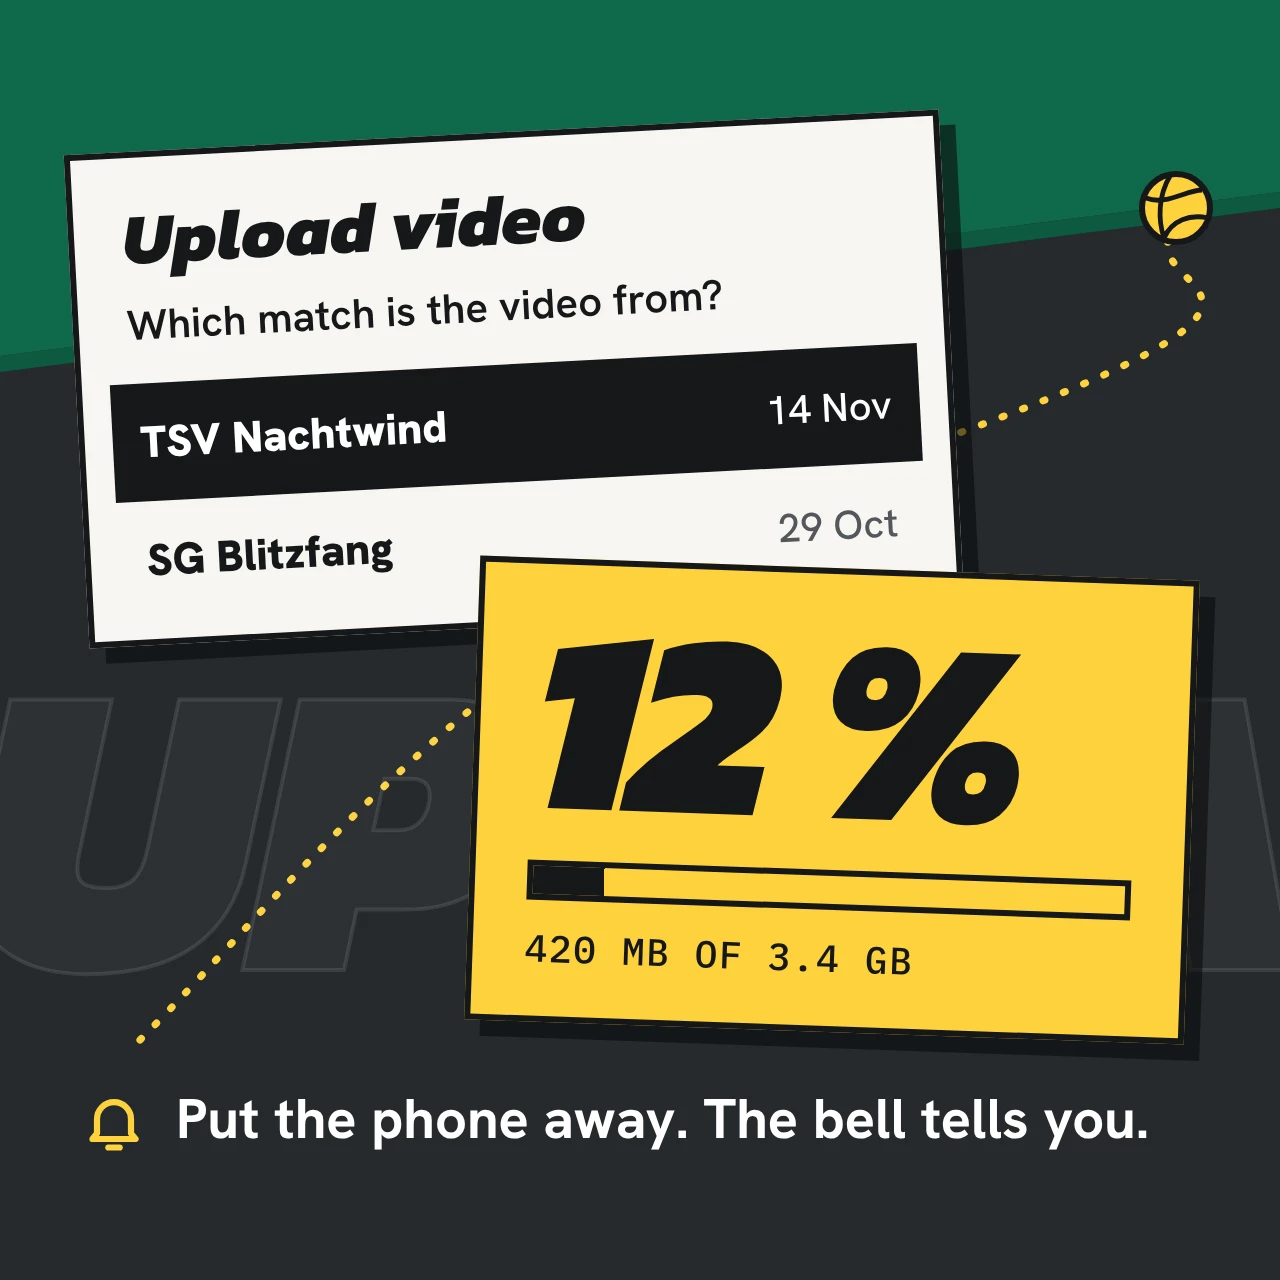
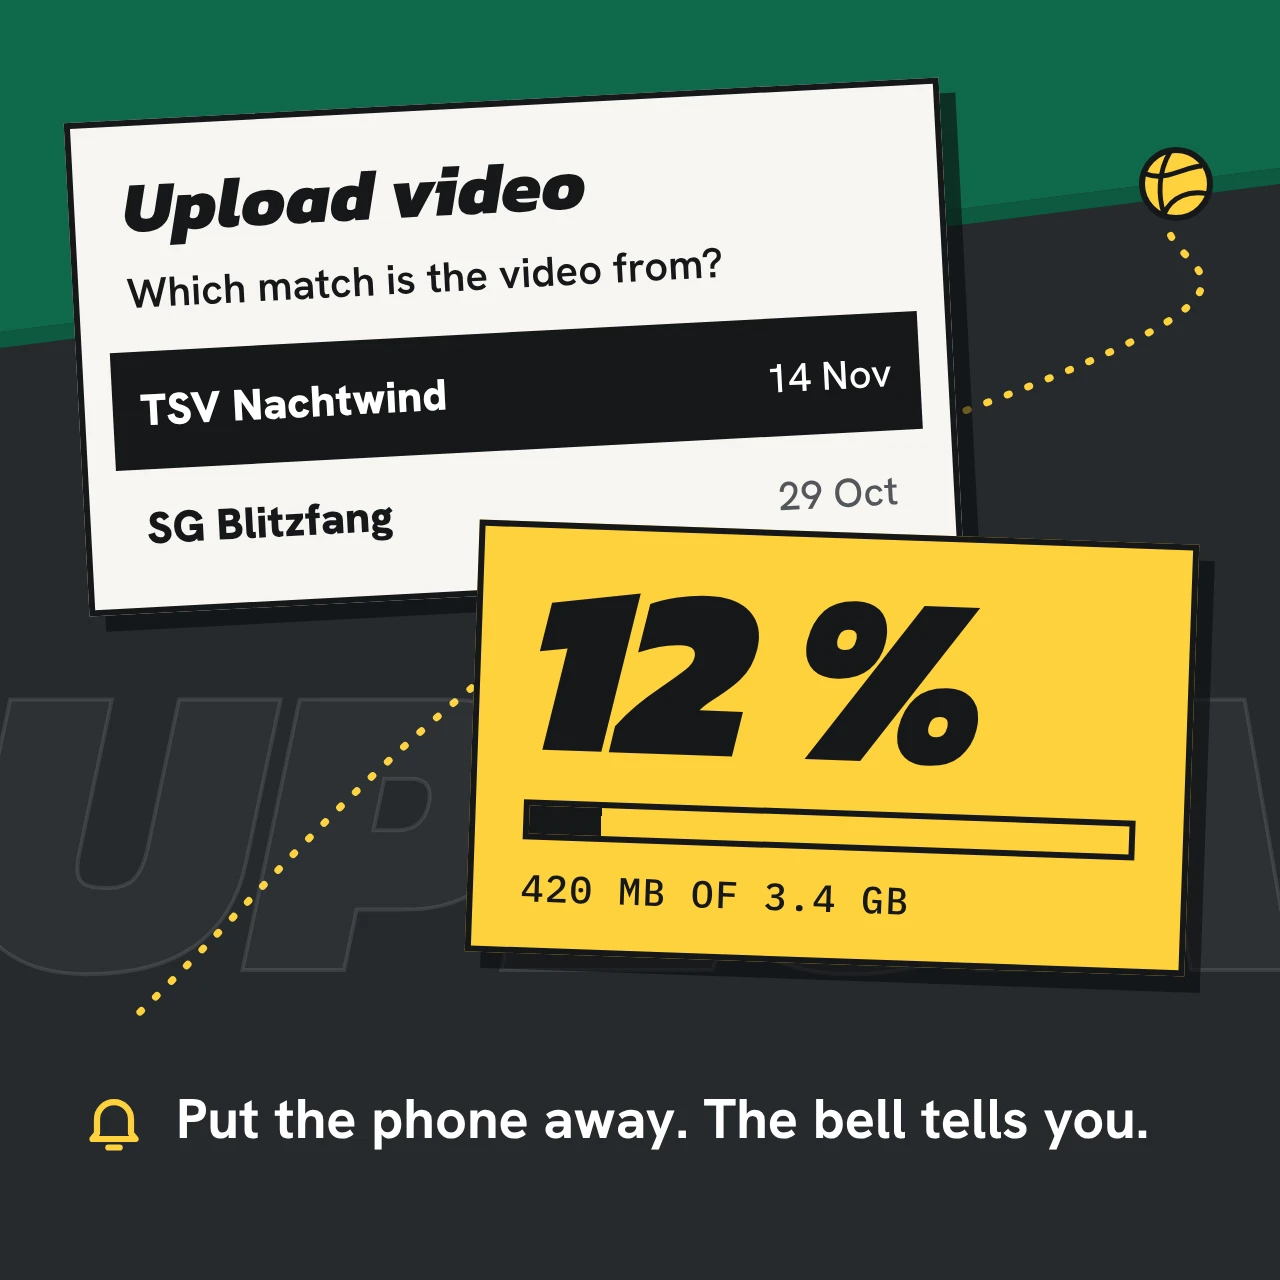
Site U33: step «Hochladen», room between the yellow card and the line at the foot
The German line wraps to two sentences; the cards move up so neither
touches it.

Claude-Session: https://claude.ai/code/session_01H3gogAPSyQiYdtAJAURpx7

diff --git a/apps/site/scripts/product-shots/templates/step-upload.html b/apps/site/scripts/product-shots/templates/step-upload.html
@@ -10,7 +10,7 @@
 <style>
   .sheet {
     left: 38px;
-    top: 66px;
+    top: 50px;
     width: 438px;
     padding: 22px 0 10px;
   }
@@ -50,12 +50,12 @@
   }
   .up {
     left: 236px;
-    top: 284px;
+    top: 266px;
     width: 360px;
-    padding: 22px 26px 22px;
+    padding: 18px 24px 18px;
   }
   .up .heavy {
-    font-size: 132px;
+    font-size: 122px;
     letter-spacing: -0.02em;
   }
   .up .bar {
@@ -86,12 +86,12 @@
   const g = [];
   g.push(`<rect width="${W}" height="${H}" fill="${K.night}"/>`);
   // the club's green, slanted, behind the sheet
-  g.push(`<path d="M0 0H${W}V96L0 178Z" fill="${K.pitch}"/>`);
-  g.push(`<path d="M0 178L${W} 96V104L0 186Z" fill="${K.pitch2}"/>`);
+  g.push(`<path d="M0 0H${W}V84L0 166Z" fill="${K.pitch}"/>`);
+  g.push(`<path d="M0 166L${W} 84V92L0 174Z" fill="${K.pitch2}"/>`);
   // the ball's way up: dotted, from the foot to the yellow ball at the top
-  const way = "M70 520C150 440 250 300 470 220S560 150 588 112";
+  const way = "M70 506C150 430 250 290 470 210S560 140 588 100";
   g.push(`<path d="${way}" fill="none" stroke="${K.attn}" stroke-width="3.6" stroke-dasharray="1 10" stroke-linecap="round"/>`);
-  g.push(`<g transform="translate(588 104)"><circle r="17" fill="${K.attn}" stroke="${K.ink}" stroke-width="3"/><path d="M-15 -5C-5 -1 5 -9 13 -9M-6 15C-2 6 7 3 16 5M-3 -16C-9 -6 -9 6 -6 15" fill="none" stroke="${K.ink}" stroke-width="2.4"/></g>`);
+  g.push(`<g transform="translate(588 92)"><circle r="17" fill="${K.attn}" stroke="${K.ink}" stroke-width="3"/><path d="M-15 -5C-5 -1 5 -9 13 -9M-6 15C-2 6 7 3 16 5M-3 -16C-9 -6 -9 6 -6 15" fill="none" stroke="${K.ink}" stroke-width="2.4"/></g>`);
   ground(g.join(""));
 
   ghost(T.word, { left: "-18px", top: "330px" });
